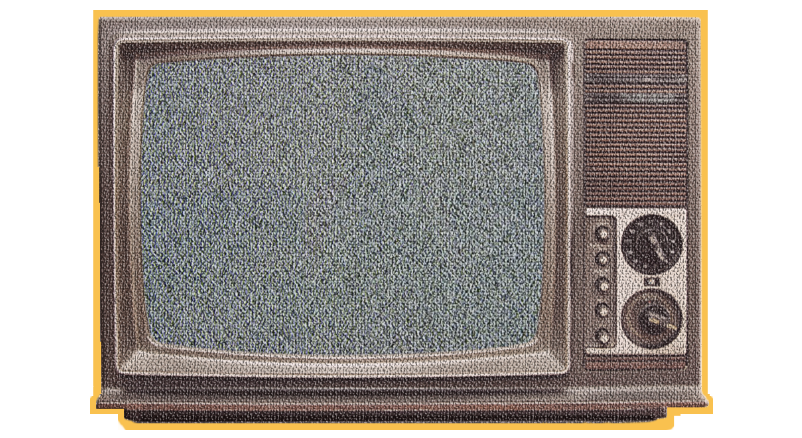
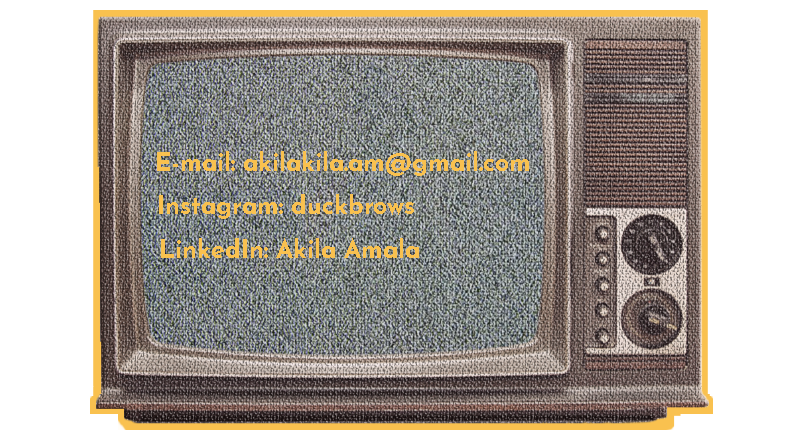
commit7

Changed region(s): [[0.187, 0.4452, 0.5299, 0.5046], [0.187, 0.3265, 0.6858, 0.4155], [0.187, 0.5342, 0.5299, 0.5936]]

diff --git a/aboutme.html b/aboutme.html
@@ -3,25 +3,33 @@
   <head>
     <meta charset="UTF-8">
     <meta name="viewport" content="width=device-width, initial-scale=1.0">
-        <title>About me</title>
+    <title>About me</title>
 	<link href="https://fonts.googleapis.com/css?family=Abril+Fatface|Bowlby+One+SC|Ultra&display=swap" rel="stylesheet">
   <link href="https://fonts.googleapis.com/css?family=Josefin+Sans&display=swap" rel="stylesheet">
     <link rel="stylesheet" href="css/aboutme.css">
-    <style>
+   
+   <div id="navbar">
+        <a href="portfolio.html">Home</a> 
+        <a href="project.html">Projects</a>
+        <a href="workexp.html">Work Experience</a>
+        <a href="education.html">Education</a>
+        <a href="contact.html">Contact</a>
+<div class ="background">
+    <div class = "item item-1"></div>
+</div>
+
+</div>
+<style>
   body {background-color: #F99A94;}
 </style>
-  </head>
+</head>
 
   <body>
-  	<main>
   		<!-- ***************  title  **************** -->
-      <header>
-      	<section>
+  
         <div class="title-name">
-          
           <h1>About me</h1>
           <h2>Get to know the girl behind the screen.</h2>
-
         </div>
           <div class="text">
 
@@ -29,18 +37,12 @@
           <p>I am passionate about exploring new things and solving problems from a different angle, also my design philosophy is to keep things vibrant, imaginative, and fun.
           </p>
 
-    <li><a class="btn" href="portfolio.html" target="_blank">Go back</a></li>
-        </div>
+          </div>
             <img class = "banner" src="images/blackandwhite2.jpg"/>
 
           <div class="text2">
             <p> Hard skills: Adobe Photoshop, Paint Tool Sai, Adobe XD, HTML </p>
             <p> Soft skills: Understanding, Team player, Hard-working, Creative </p>
           </div>
-        
-            <div class ="background">
-    <div class = "item item-1"></div>
-        </div>
-        </section>
-      </section>
-      </header>
+ 
+  

diff --git a/education.html b/education.html
@@ -6,13 +6,13 @@
     <meta name="viewport" content="width=device-width, initial-scale=1.0">
     <link href="https://fonts.googleapis.com/css?family=Abril+Fatface|Bowlby+One+SC|Ultra&display=swap" rel="stylesheet">
   <link href="https://fonts.googleapis.com/css?family=Josefin+Sans&display=swap" rel="stylesheet">
-    <link rel="stylesheet" href="css/workexp.css">
+    <link rel="stylesheet" href="css/education.css">
  
 <div id="navbar">
         <a href="portfolio.html">Home</a>
         <a href="aboutme.html">About Me</a>
         <a href="project.html">Projects</a>
-        <a href="education.html">Education</a>
+        <a href="workexp.html">Work Experience</a>
         <a href="contact.html">Contact</a>
 </div>
  <style>
@@ -22,21 +22,20 @@
 </style>
 </head>
 
+
 <body>
-	<section>
-	<div class = "title"> 
-<h1>Work Experience</h1>
-<h2>Always up for a challenge.</h2>
-	</div>
+  <section>
+  <div class = "title"> 
+
+<h1>Education</h1>
+  
+  </div>
 
 <div class="text">
-  <p>Vice leader of Design Committee of 78 High School Student Council (2016-2017)</p>
-  <p>Freelance designer for Opinionion.co (2019)</p> 
-  <p>Freelance illustrator for various clients</p>
+  <p>The Hague University of Applied Sciences</p>
 </div>
-	
-  <div class = "pic">
-  <img class="pics" src="images/sunflower.png"/>
-</div>
-	</section>
+
+
+
+</section>
 </body>

diff --git a/css/education.css b/css/education.css
@@ -5,35 +5,25 @@ html {
   box-sizing: inherit;
 }
 
+h2 {
+  font-size: 25px;
+  font-family: 'Josefin Sans', sans-serif;
+  font-weight: 200;
+  font-weight: 200;
+  color: #F9C14F;
+  margin: 0;
+}
 h1{ 
-  font-size: 50px;
+	  font-size: 50px;
   line-height: 1;
-  font-family: 'Bowlby One SC', cursive;
-  font-family: 'Abril Fatface', cursive;
-  font-family: 'Ultra', serif;
-  font-weight: 200;
+	font-family: 'Bowlby One SC', cursive;
+	font-family: 'Abril Fatface', cursive;
+	font-family: 'Ultra', serif;
+	font-weight: 200;
   color: #F9C14F;
-  margin: 5;
-  
+  margin: 3;  
 }
-
-h2{ 
-  font-size: 25px;
-  font-family: 'Josefin Sans', sans-serif;
-  font-weight: 200;
-  font-weight: 200;
-  color: #F9C14F;
-  margin: 2;  
-}
-
-h3{
-  font-size: 25px;
-  font-family: 'Josefin Sans', sans-serif;
-  font-weight: 200;
-  margin: 2;  
-}
-
-p{
+p {
   font-family: 'Josefin Sans', sans-serif;
   font-weight: 200;
   margin: 2;  
@@ -52,16 +42,3 @@ p{
   text-decoration: none;
 }
 
-.title-name {
-  padding-left:25px;
-}
-
-.tv {
-	z-index: 0;
-	max-width: 100%;
-  margin-left: 250px;
-  margin-right: auto;
-  margin-top:50px;
-
- 
-}

diff --git a/contact.html b/contact.html
@@ -7,19 +7,34 @@
 <link href="https://fonts.googleapis.com/css?family=Abril+Fatface|Bowlby+One+SC|Ultra&display=swap" rel="stylesheet">
   <link href="https://fonts.googleapis.com/css?family=Josefin+Sans&display=swap" rel="stylesheet">
     <link rel="stylesheet" href="css/contact.css">
-  </head>
+  
+<div id="navbar">
+        <a href="portfolio.html">Home</a>
+        <a href="aboutme.html">About Me</a>
+        <a href="project.html">Projects</a>
+        <a href="workexp.html">Work Experience</a>
+        <a href="education.html">Education</a>
+</div>
   <style>
       body {
         background-color: #EF6356;
       }
    </style>
 
+
+  </head>
+  
 <body>
+		<!-- ***************  title  **************** -->
+	<div class= "title-name">
 <h1>Contact</h1>
 <h2>Let's get in touch.</h2>
+</div>
 
-<img class="tv" src="images/tele.png"/>
 
-<p> E-mail: akilakila.am@gmail.com</p>
-<p> Instagram: @duckbrows</p>
+	<div class="box">
+		<img class="tv" src="images/tele.png"/>
+	</div>
+
+
 </body>

diff --git a/css/workexp.css b/css/workexp.css
@@ -4,3 +4,44 @@ html {
 *, *:before, *:after {
   box-sizing: inherit;
 }
+
+h2 {
+  font-size: 25px;
+  font-family: 'Josefin Sans', sans-serif;
+  font-weight: 200;
+  font-weight: 200;
+  color: #F9C14F;
+  margin: 0;
+}
+h1{ 
+	  font-size: 50px;
+  line-height: 1;
+	font-family: 'Bowlby One SC', cursive;
+	font-family: 'Abril Fatface', cursive;
+	font-family: 'Ultra', serif;
+	font-weight: 200;
+  color: #F9C14F;
+  margin: 3;  
+}
+p {
+  font-family: 'Josefin Sans', sans-serif;
+  font-weight: 200;
+  margin: 2;  
+}
+
+/* Navbar links*/
+#navbar a {
+  z-index: 100;
+  float: top-right;
+  display: inline-block;
+  color: #FFEAD6;
+  font-family: 'Josefin Sans', sans-serif;
+  font-size: 15px;
+  padding-left: 25px;
+  padding-top: 10px;
+  text-decoration: none;
+}
+.pics{
+float: bottom;
+  max-width: 20%;
+}

diff --git a/css/aboutme.css b/css/aboutme.css
@@ -44,6 +44,20 @@ p {
   margin: 2;  
 }
 
+/* Navbar links*/
+#navbar a {
+  z-index: 1000;
+  float: top-right;
+  display: inline-block;
+  color: #FFEAD6;
+  font-family: 'Josefin Sans', sans-serif;
+  font-size: 15px;
+  padding-left: 25px;
+  padding-top: 10px;
+  text-decoration: none;
+}
+
+
 .title-name { 
   top:0px;
   left:50px;
@@ -61,18 +75,6 @@ p {
   z-index: 50;
 }
 
-.btn{
-  background-color: #F9C14F;
-  padding-top: 10px;
-  padding-bottom: 10px;
-  padding-right:20px;
-  padding-left: 20px;
-  border-radius: 5px;
-  text-decoration: none;
-  font-family: 'Bowlby One SC', cursive;
-  font-family: 'Abril Fatface', cursive;
-  font-family: 'Ultra', serif;
-}
 
 .banner{
   width: 50%;
